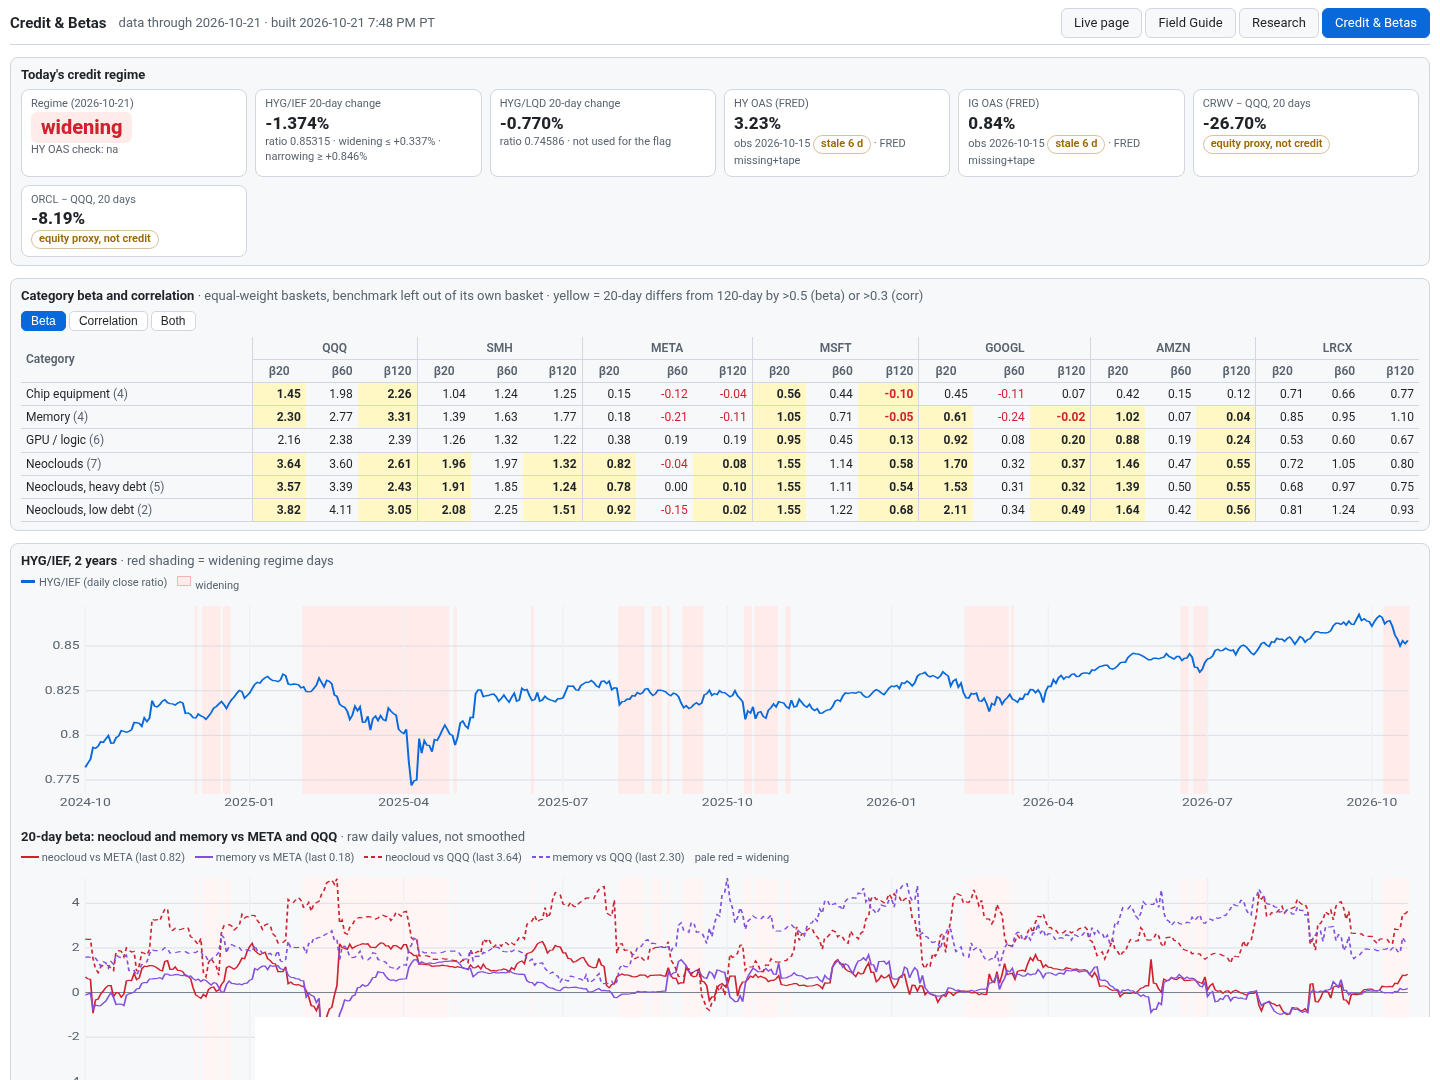
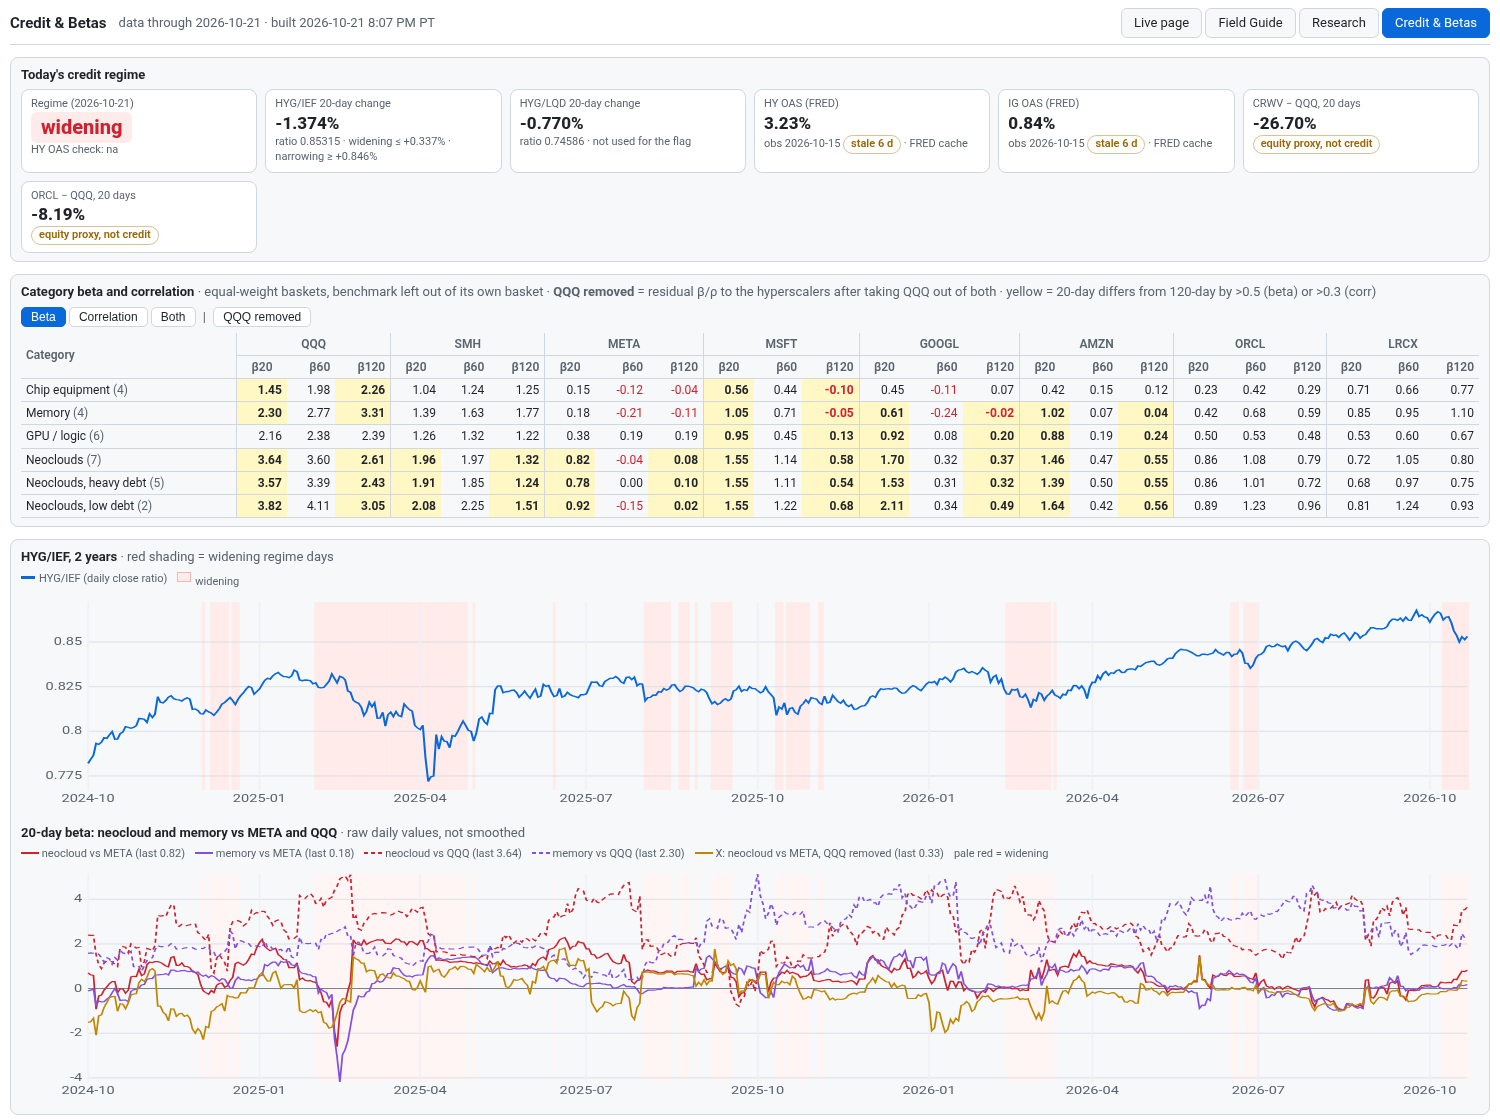
mini-oid-collector: sync from Mac mini @ 3a21f43 (2026-10-21 20:09 PDT)
Mini commits covered:
- 3a21f43 sync mini live code 2026-10-21 20:09 PDT

diff --git a/mini-oid-collector/oid-live-page/credit.html b/mini-oid-collector/oid-live-page/credit.html
@@ -34,8 +34,8 @@ svg{display:block;width:100%;font-size:10px}.lg{display:flex;gap:10px;flex-wrap:
 
 <section><h2>Today's credit regime</h2><div class="cards" id="cards"></div></section>
 
-<section><h2>Category beta and correlation <span class="mut" style="font-weight:400">· equal-weight baskets, benchmark left out of its own basket · yellow = 20-day differs from 120-day by &gt;0.5 (beta) or &gt;0.3 (corr)</span></h2>
-<div class="ctl" style="margin-bottom:6px"><button data-k="beta" class="on">Beta</button> <button data-k="corr">Correlation</button> <button data-k="both">Both</button></div>
+<section><h2>Category beta and correlation <span class="mut" style="font-weight:400">· equal-weight baskets, benchmark left out of its own basket · <b>QQQ removed</b> = residual β/ρ to the hyperscalers after taking QQQ out of both · yellow = 20-day differs from 120-day by &gt;0.5 (beta) or &gt;0.3 (corr)</span></h2>
+<div class="ctl" style="margin-bottom:6px"><button data-k="beta" class="on">Beta</button> <button data-k="corr">Correlation</button> <button data-k="both">Both</button> <span class="mut" style="margin:0 4px">|</span> <button id="xq" title="QQQ removed: within each window the basket and the hyperscaler are both regressed on QQQ, then β/ρ are taken on the residuals. Hyperscaler benchmarks only.">QQQ removed</button></div>
 <div class="tw"><table id="tb"></table></div></section>
 
 <section><h2>HYG/IEF, 2 years <span class="mut" style="font-weight:400">· red shading = widening regime days</span></h2>
@@ -51,7 +51,7 @@ const E=s=>String(s??'').replace(/[&<>"]/g,c=>({'&':'&amp;','<':'&lt;','>':'&gt;
 const f=(x,d=2)=>x==null||x===''||isNaN(x)?'—':(+x).toFixed(d);
 const sg=(x,d=2)=>x==null||x===''||isNaN(x)?'—':((+x>0?'+':'')+(+x).toFixed(d));
 const CATS=[['chip_equip','Chip equipment'],['memory','Memory'],['gpu_logic','GPU / logic'],['neocloud','Neoclouds'],['neocloud_heavy_debt','Neoclouds, heavy debt'],['neocloud_low_debt','Neoclouds, low debt']];
-let D=null,MODE='beta';
+let D=null,MODE='beta',XQ=false;
 function days(a,b){return Math.round((new Date(b)-new Date(a))/864e5)}
 function cards(){
  const L=D.latest,s=L.spreads,st=D.fred_stale_days;
@@ -65,12 +65,12 @@ function cards(){
  `<div class="cd"><div class="k">ORCL − QQQ, 20 days</div><div class="v">${sg(s.orcl_minus_qqq_20d_pct,2)}%</div><div class="k"><span class="pill warn">equity proxy, not credit</span></div></div>`;
 }
 function table(){
- const L=D.latest,B=L.benchmarks,W=L.windows,ks=MODE==='both'?['beta','corr']:[MODE];
+ const L=D.latest,B=XQ?(L.hyperscalers_qqq_removed||[]):L.benchmarks,W=L.windows,ks=(MODE==='both'?['beta','corr']:[MODE]).map(k=>XQ?'x'+k:k);
  let h=`<tr><th rowspan="2">Category</th>`+B.map(b=>`<th class="g" colspan="${W.length*ks.length}">${E(b)}</th>`).join('')+`</tr><tr>`;
- h+=B.map(()=>ks.map(k=>W.map((w,i)=>`<th class="${i===0&&k===ks[0]?'g':''}" style="${i===0&&k===ks[0]?'border-left:1px solid var(--line)':''}">${k==='beta'?'β':'ρ'}${w}</th>`).join('')).join('')).join('')+`</tr>`;
+ h+=B.map(()=>ks.map(k=>W.map((w,i)=>`<th class="${i===0&&k===ks[0]?'g':''}" style="${i===0&&k===ks[0]?'border-left:1px solid var(--line)':''}">${k.startsWith('x')?'x':''}${k.endsWith('beta')?'β':'ρ'}${w}</th>`).join('')).join('')).join('')+`</tr>`;
  for(const [c,lbl] of CATS){const r=L.rolling[c];if(!r)continue;
   h+=`<tr><td title="${E((L.categories[c]||[]).join(', '))}">${E(lbl)} <span class="mut">(${(L.categories[c]||[]).length})</span></td>`;
-  for(const b of B){const x=r[b]||{};ks.forEach((k,ki)=>{const thr=k==='beta'?0.5:0.3;const a=x[k+'20'],z=x[k+'120'];const flag=a!=null&&z!=null&&Math.abs(a-z)>thr;
+  for(const b of B){const x=r[b]||{};ks.forEach((k,ki)=>{const thr=k.endsWith('beta')?0.5:0.3;const a=x[k+'20'],z=x[k+'120'];const flag=a!=null&&z!=null&&Math.abs(a-z)>thr;
    W.forEach((w,i)=>{const v=x[k+w];h+=`<td class="${i===0&&ki===0?'g0 ':''}${flag&&(w===20||w===120)?'hl ':''}${v!=null&&v<0?'neg':''}" ${flag?`title="${k} 20d ${f(a,3)} vs 120d ${f(z,3)}: diff ${sg(a-z,3)}"`:''}>${f(v,2)}</td>`})})}
   h+=`</tr>`}
  document.getElementById('tb').innerHTML=h;
@@ -90,7 +90,7 @@ function charts(){
   g+=axes(null,X0,X1,Y0,Y1,ticks(lo-pad,hi+pad,5),S.date,xs,ys);
   g+=`<path d="${path(S.hyg_ief,xs,ys)}" fill="none" stroke="#0969da" stroke-width="1.4"/>`;
   document.getElementById('c1').innerHTML=g}
- {const Y0=8,Y1=216,K=[['neocloud__META__beta20','neocloud vs META','#cf222e',''],['memory__META__beta20','memory vs META','#8250df',''],['neocloud__QQQ__beta20','neocloud vs QQQ','#cf222e','4 3'],['memory__QQQ__beta20','memory vs QQQ','#8250df','4 3']];
+ {const Y0=8,Y1=216,K=[['neocloud__META__beta20','neocloud vs META','#cf222e',''],['memory__META__beta20','memory vs META','#8250df',''],['neocloud__QQQ__beta20','neocloud vs QQQ','#cf222e','4 3'],['memory__QQQ__beta20','memory vs QQQ','#8250df','4 3'],['neocloud__META__xbeta20','X: neocloud vs META, QQQ removed','#bf8700','']];
   const all=K.flatMap(k=>S[k[0]].filter(x=>x!=null)),lo=Math.min(0,...all),hi=Math.max(...all);
   const xs=scale(0,n-1,X0,X1),ys=scale(lo,hi,Y1,Y0);let g='';const w=(X1-X0)/(n-1||1);
   S.regime.forEach((r,i)=>{if(r==='widening')g+=`<rect x="${(xs(i)-w/2).toFixed(1)}" y="${Y0}" width="${(w+0.3).toFixed(2)}" height="${Y1-Y0}" fill="#fff5f4"/>`});
@@ -100,10 +100,12 @@ function charts(){
   document.getElementById('lg2').innerHTML=K.map(k=>`<span><svg width="18" height="6" style="display:inline;width:18px;vertical-align:1px"><line x1="0" x2="18" y1="3" y2="3" stroke="${k[2]}" stroke-width="2" ${k[3]?`stroke-dasharray="${k[3]}"`:''}/></svg> ${k[1]} (last ${f(S[k[0]][n-1],2)})</span>`).join('')+`<span>pale red = widening</span>`}
 }
 function foot(){const L=D.latest;document.getElementById('fn').innerHTML=
- `<b>Source and method.</b> Alpaca SIP daily bars (adjustment=all) and FRED ICE BofA OAS (BAMLH0A0HYM2, BAMLC0A0CM; forward-filled from the last observation; the job runs without FRED when it is down). Baskets are equal-weight daily close-to-close returns of members with data that day (membership from the read-through study; heavy-debt includes CORZ). β and ρ = rolling OLS slope and Pearson correlation over 20/60/120 sessions; a value needs ≥75% of the window. Regime = the 20-session % change in HYG/IEF against its trailing-252-session terciles (bottom = widening, top = narrowing); HY OAS ±15 bp over 20 days is a cross-check only. CRWV/ORCL − QQQ is an equity proxy, not credit. Raw values, no smoothing. Research only, not an order signal. `+
+ `<b>Source and method.</b> Alpaca SIP daily bars (adjustment=all) and FRED ICE BofA OAS (BAMLH0A0HYM2, BAMLC0A0CM; forward-filled from the last observation; the job runs without FRED when it is down). Baskets are equal-weight daily close-to-close returns of members with data that day (membership from the read-through study; heavy-debt includes CORZ). β and ρ = rolling OLS slope and Pearson correlation over 20/60/120 sessions; xβ/xρ (QQQ removed, META/MSFT/GOOGL/AMZN/ORCL only) = the same on the residuals after regressing both the basket and the hyperscaler on QQQ inside each window; a value needs ≥75% of the window. Regime = the 20-session % change in HYG/IEF against its trailing-252-session terciles (bottom = widening, top = narrowing); HY OAS ±15 bp over 20 days is a cross-check only. CRWV/ORCL − QQQ is an equity proxy, not credit. Raw values, no smoothing. Research only, not an order signal. `+
  `Files: <code>~/oid-data/research/spread-corr/spread_corr_daily.csv</code>, <code>latest.json</code> · job <code>com.oid.desk.spread-corr</code> (Mon–Fri 13:30 PT) · ${L.rows} sessions ${E(L.first_date)}…${E(L.date)}.<br><b>Last updated:</b> ${E(L.built_pt)} (data through ${E(L.date)}).`;
  document.getElementById('asof').textContent=`data through ${L.date} · built ${L.built_pt}`}
-document.querySelectorAll('.ctl button').forEach(b=>b.onclick=()=>{MODE=b.dataset.k;document.querySelectorAll('.ctl button').forEach(x=>x.classList.toggle('on',x===b));table()});
+document.querySelectorAll('.ctl button[data-k]').forEach(b=>b.onclick=()=>{MODE=b.dataset.k;document.querySelectorAll('.ctl button[data-k]').forEach(x=>x.classList.toggle('on',x===b));table()});
+document.getElementById('xq').onclick=e=>{XQ=!XQ;e.target.classList.toggle('on',XQ);table()};
+if(location.hash==='#x'){XQ=true;document.getElementById('xq').classList.add('on')}  // /credit#x opens with QQQ removed
 fetch('credit.json',{cache:'no-store'}).then(r=>r.ok?r.json():r.json().then(j=>Promise.reject(j.error||r.status))).then(j=>{D=j;cards();table();charts();foot()})
  .catch(e=>{const x=document.getElementById('err');x.style.display='inline-block';x.textContent='Credit data unavailable: '+e});
 </script></body></html>

diff --git a/mini-oid-collector/oid-score/research/spread_corr.py b/mini-oid-collector/oid-score/research/spread_corr.py
@@ -17,7 +17,8 @@ import optflow as OF
 PT = ZoneInfo("America/Los_Angeles")
 OUT = H / "oid-data/research/spread-corr"; (OUT / "fred").mkdir(parents=True, exist_ok=True)
 START_FETCH, START_OUT = "2023-06-01", "2024-10-01"
-WINS = (20, 60, 120); BENCH = ["QQQ", "SMH", "META", "MSFT", "GOOGL", "AMZN", "LRCX"]
+WINS = (20, 60, 120); BENCH = ["QQQ", "SMH", "META", "MSFT", "GOOGL", "AMZN", "ORCL", "LRCX"]
+HYPER = ["META", "MSFT", "GOOGL", "AMZN", "ORCL"]  # also get QQQ-removed (residual) beta/corr: xbeta/xcorr
 # ---- categories: reuse the read-through/catbeta membership; heavy-debt = desk list (catbeta's SEC split + CORZ)
 try:
     CAT = json.loads((H / "oid-data/patterns/catbeta-20261021.json").read_text())["categories"]; CAT_SRC = "catbeta-20261021.json"
@@ -111,6 +112,7 @@ def main():
     cols = ["date", "hy_oas", "hy_oas_obs_date", "ig_oas", "hy_oas_chg20_bp", "hyg_ief", "hyg_lqd", "hyg_ief_chg20_pct", "hyg_lqd_chg20_pct",
             "regime", "regime_p33", "regime_p67", "regime_hy_check", "crwv_minus_qqq_20d_pct", "orcl_minus_qqq_20d_pct"]
     cols += [f"{c}__{b}__{k}{w}" for c in CAT for b in BENCH for w in WINS for k in ("beta", "corr")]
+    cols += [f"{c}__{b}__{k}{w}" for c in CAT for b in HYPER for w in WINS for k in ("xbeta", "xcorr")]
     rows = []
     for i, d in enumerate(days):
         if d < START_OUT: continue
@@ -137,6 +139,20 @@ def main():
                 be, co = stats([p[0] for p in pr], [p[1] for p in pr]) if len(pr) >= max(10, int(0.75 * w)) else (None, None)
                 row[f"{c}__{b}__beta{w}"] = round(be, 3) if be is not None else None
                 row[f"{c}__{b}__corr{w}"] = round(co, 3) if co is not None else None
+                if b in HYPER:  # QQQ-removed: regress basket and benchmark on QQQ within the window, then beta/corr of the residuals
+                    xb = xc = None
+                    tr = [(R["QQQ"][j], R[b][j], y[j]) for j in range(max(1, i - w + 1), i + 1) if R["QQQ"][j] is not None and R[b][j] is not None and y[j] is not None]
+                    if len(tr) >= max(10, int(0.75 * w)):
+                        q = [t[0] for t in tr]
+                        def resid(v):
+                            bb, _ = stats(q, v)
+                            if bb is None: return None
+                            mq, mv = sum(q) / len(q), sum(v) / len(v)
+                            return [vi - (mv + bb * (qi - mq)) for qi, vi in zip(q, v)]
+                        ex, ey = resid([t[1] for t in tr]), resid([t[2] for t in tr])
+                        if ex and ey: xb, xc = stats(ex, ey)
+                    row[f"{c}__{b}__xbeta{w}"] = round(xb, 3) if xb is not None else None
+                    row[f"{c}__{b}__xcorr{w}"] = round(xc, 3) if xc is not None else None
         rows.append(row)
     tmp = OUT / "spread_corr_daily.csv.tmp"
     with open(tmp, "w", newline="") as f:
@@ -149,12 +165,14 @@ def main():
               "spreads": {k: L[k] for k in cols[1:15]},
               "fred_status": {"BAMLH0A0HYM2": hy_st, "BAMLC0A0CM": ig_st},
               "categories": CAT, "category_source": CAT_SRC + " (+CORZ in heavy-debt per desk list)", "benchmarks": BENCH, "windows": WINS,
-              "rolling": {c: {b: {f"{k}{w}": L[f"{c}__{b}__{k}{w}"] for w in WINS for k in ("beta", "corr")} for b in BENCH} for c in CAT},
+              "rolling": {c: {b: {f"{k}{w}": L[f"{c}__{b}__{k}{w}"] for w in WINS for k in (("beta", "corr", "xbeta", "xcorr") if b in HYPER else ("beta", "corr"))} for b in BENCH} for c in CAT},
+              "hyperscalers_qqq_removed": HYPER,
               "notes": ["Basket = equal-weight daily close-to-close return of members with data that day; the benchmark is excluded from its own basket (e.g. chip_equip vs LRCX is ex-LRCX).",
                         "regime: 20-session % change in HYG/IEF vs its trailing-252-session terciles (min 60 obs). Bottom tercile = widening, top = narrowing. HYG/IEF falls when spreads widen.",
                         "regime_hy_check: HY OAS 20-session change (>=+15bp widening, <=-15bp narrowing) vs regime: agree/partial/disagree/na. FRED is optional; OAS is forward-filled from its last observation (hy_oas_obs_date).",
                         "AI-debt proxy is equity, not credit: CRWV and ORCL 20-session return minus QQQ (no free CDS/bond feed).",
                         "Bars: Alpaca SIP daily, adjustment=all (HYG/LQD/IEF ratios are total-return-ish, not price-only). Rows need >=75% of the window with data; newer listings (CRWV, SNDK, etc.) start later.",
+                        "xbeta/xcorr (QQQ removed, hyperscaler benchmarks only): within each window, regress the basket's and the benchmark's daily returns on QQQ (OLS), then take the OLS beta and correlation of basket residuals on benchmark residuals.",
                         "Before rolling numbers fill: 20d needs 15 obs, 60d 45, 120d 90."],
               "columns": cols, "csv": str(OUT / "spread_corr_daily.csv"), "elapsed_s": round(time.time() - t0, 1)}
     (OUT / "latest.json.tmp").write_text(json.dumps(latest, indent=1)); (OUT / "latest.json.tmp").replace(OUT / "latest.json")

diff --git a/mini-oid-collector/oid-live-page/livepage.py b/mini-oid-collector/oid-live-page/livepage.py
@@ -2341,7 +2341,7 @@ def chart_query(qs):
 # CREDITTAB (2026-10-21): Credit & Betas tab. Read-only view of ~/oid-data/research/spread-corr (com.oid.desk.spread-corr).
 CREDIT_DIR = Path.home() / "oid-data/research/spread-corr"
 CREDIT_SERIES = ["date", "regime", "hyg_ief", "hyg_ief_chg20_pct", "hy_oas", "neocloud__META__beta20", "memory__META__beta20",
-                 "neocloud__QQQ__beta20", "memory__QQQ__beta20"]
+                 "neocloud__QQQ__beta20", "memory__QQQ__beta20", "neocloud__META__xbeta20"]
 _CREDIT_CACHE = {"key": None, "body": None}
 
 

diff --git a/mini-oid-collector/oid-live-page/guide/docs/36-credit-betas.md b/mini-oid-collector/oid-live-page/guide/docs/36-credit-betas.md
@@ -1,7 +1,7 @@
 # 36 · Credit & Betas tab
 [← Index](README.md)
 
-> Added **Wed 10/21/2026, 8:15 PM PT**. Header button **Credit & Betas**, next to Research. Address: `/credit`. Data endpoint: `/credit.json`. Research only, not an order signal.
+> Added **Wed 10/21/2026, 8:15 PM PT**; ORCL benchmark and QQQ-removed view added 8:25 PM PT. Header button **Credit & Betas**, next to Research. Address: `/credit`. Data endpoint: `/credit.json`. Research only, not an order signal.
 
 ![Credit & Betas tab: regime card, category beta/correlation table, HYG/IEF and 20-day beta charts](img/credit-betas-tab.png)
 
@@ -16,11 +16,11 @@
 | HYG/LQD 20-day change | Shown for context; it does not set the flag. |
 | HY OAS, IG OAS | ICE BofA OAS from FRED with the observation date. An amber **stale N d** tag appears when the latest FRED observation is more than 3 days older than the data date. |
 | CRWV − QQQ, ORCL − QQQ | 20-day return gap, tagged **equity proxy, not credit** (no free CDS or bond feed). |
-| Beta / correlation table | One row per category (chip equipment, memory, GPU/logic, neoclouds, neoclouds with heavy debt, neoclouds with low debt). Columns are β or ρ over 20/60/120 days against QQQ, SMH, META, MSFT, GOOGL, AMZN and LRCX. The Beta, Correlation and Both buttons switch views. **Yellow** marks a 20-day value that differs from the 120-day value by more than 0.5 (beta) or 0.3 (correlation); hover to see the gap. Negative values are red. Hover a category to see its members. |
+| Beta / correlation table | One row per category (chip equipment, memory, GPU/logic, neoclouds, neoclouds with heavy debt, neoclouds with low debt). Columns are β or ρ over 20/60/120 days against QQQ, SMH, META, MSFT, GOOGL, AMZN, ORCL and LRCX. The Beta, Correlation and Both buttons switch views. **QQQ removed** switches the table to xβ/xρ against the five hyperscalers only (META, MSFT, GOOGL, AMZN, ORCL); the same yellow rule applies. `/credit#x` opens the tab with QQQ removed already on. **Yellow** marks a 20-day value that differs from the 120-day value by more than 0.5 (beta) or 0.3 (correlation); hover to see the gap. Negative values are red. Hover a category to see its members. |
 | HYG/IEF chart | Two years of the daily ratio, with widening-regime days shaded red. |
-| 20-day beta chart | Neocloud and memory 20-day beta to META (solid) and to QQQ (dashed), with widening days lightly shaded. |
+| 20-day beta chart | Neocloud and memory 20-day beta to META (solid) and to QQQ (dashed), plus the gold **X** line: neocloud 20-day QQQ-removed beta to META. Widening days are lightly shaded. |
 | Footnote | Source, method, file paths and **Last updated**. |
 
-**Method in one paragraph.** Each basket is the equal-weight daily close-to-close return of its members that have data that day; a benchmark is left out of its own basket (equipment vs LRCX is ex-LRCX). β is the rolling OLS slope and ρ the Pearson correlation, and a value needs at least 75% of its window. The regime compares the 20-session % change in HYG/IEF with its own trailing 252-session terciles. FRED is optional: when it is unreachable, the job keeps its cache and the desk market tape's latest OAS print.
+**Method in one paragraph.** Each basket is the equal-weight daily close-to-close return of its members that have data that day; a benchmark is left out of its own basket (equipment vs LRCX is ex-LRCX). β is the rolling OLS slope and ρ the Pearson correlation, and a value needs at least 75% of its window. **QQQ removed** (`<cat>__<hyperscaler>__xbeta{20,60,120}` / `xcorr`): inside each window, the basket's and the hyperscaler's daily returns are each regressed on QQQ, and β/ρ are taken on the two residual series. This shows whether a category follows META, MSFT, GOOGL, AMZN or ORCL beyond what the Nasdaq explains. The regime compares the 20-session % change in HYG/IEF with its own trailing 252-session terciles. FRED is optional: when it is unreachable, the job keeps its cache and the desk market tape's latest OAS print.
 
 **Who reads the files.** Research Bot (two-year spread-vs-correlation backtest), Chart Bot and Macro Bot read `spread_corr_daily.csv` / `latest.json` directly instead of rebuilding them. Background: Research Bot's 10/21 finding that the builders' beta to META rises from about 0.40 to 1.28 when spreads widen, while QQQ/SMH beta does not (`research-bot-followup_meta_minute_and_credit-20261021.md` in the same folder).
